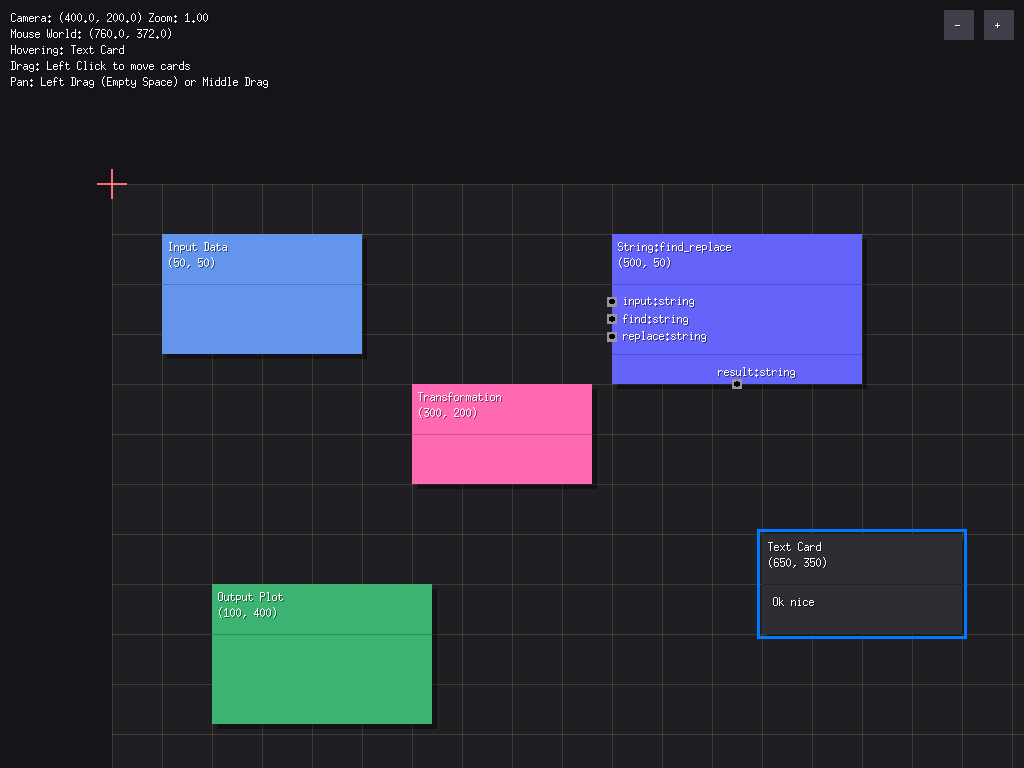
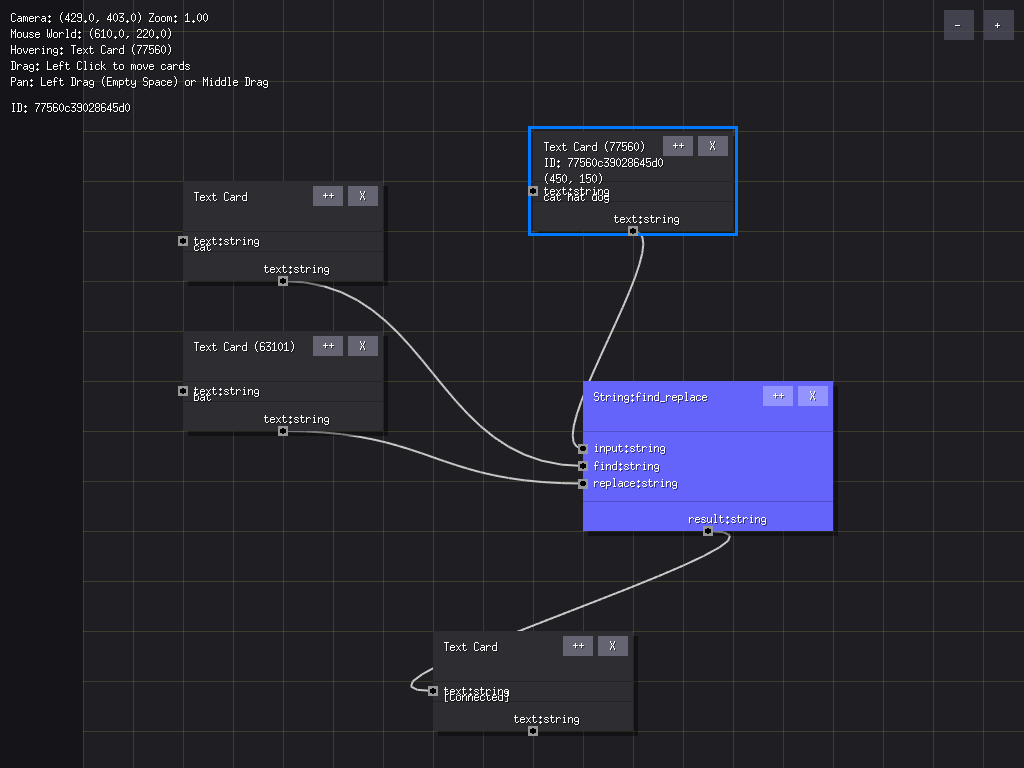
feat: Update card header display to show ID only when hovered and adjust padding for content

diff --git a/card.go b/card.go
@@ -63,7 +63,7 @@ func (c *Card) Draw(screen *ebiten.Image, g *Game, cw, ch float64, hovered bool)
 	c.drawBody(screen, g, sx, sy, sw, sh)
 	c.drawSelectionBorder(screen, g, hovered, sx, sy, sw, sh)
 	c.drawResizeHandles(screen, g, hovered, wx, wy, cw, ch)
-	c.drawHeader(screen, g, sx, sy, sw, wx, wy)
+	c.drawHeader(screen, g, sx, sy, sw, wx, wy, hovered)
 
 	headerHeight := HeaderHeight
 	footerHeight := 0.0
@@ -141,10 +141,15 @@ func (c *Card) drawResizeHandles(screen *ebiten.Image, g *Game, hovered bool, wx
 	}
 }
 
-func (c *Card) drawHeader(screen *ebiten.Image, g *Game, sx, sy, sw float64, wx, wy float64) {
-	// Title
-	msg := fmt.Sprintf("%s\nID: %s\n(%.0f, %.0f)", c.Title, c.ID, c.X, c.Y)
-	ebitenutil.DebugPrintAt(screen, msg, int(sx+5), int(sy+5))
+func (c *Card) drawHeader(screen *ebiten.Image, g *Game, sx, sy, sw float64, wx, wy float64, hovered bool) {
+	// Title - only show ID when hovered
+	var msg string
+	if hovered {
+		msg = fmt.Sprintf("%s\nID: %s\n(%.0f, %.0f)", c.Title, c.ID, c.X, c.Y)
+	} else {
+		msg = c.Title
+	}
+	ebitenutil.DebugPrintAt(screen, msg, int(sx+CardPaddingX*g.camera.Zoom), int(sy+CardPaddingY*g.camera.Zoom))
 
 	// Buttons
 	zoom := g.camera.Zoom
@@ -204,7 +209,10 @@ func (c *Card) drawContent(screen *ebiten.Image, g *Game, sx, sy, headerHeight f
 		textContent = c.Text
 	}
 
-	ebitenutil.DebugPrintAt(screen, textContent, int(sx+10), int(sy+headerHeight+10))
+	zoom := g.camera.Zoom
+	paddingX := CardPaddingX * zoom
+	paddingY := CardPaddingY * zoom
+	ebitenutil.DebugPrintAt(screen, textContent, int(sx+paddingX), int(sy+headerHeight+paddingY))
 }
 
 func (c *Card) drawDividers(screen *ebiten.Image, g *Game, sx, sy, sw, sh, headerHeight, footerHeight float64, cw, ch float64) {

diff --git a/config.go b/config.go
@@ -31,6 +31,8 @@ const (
 	BorderOffset      = 2.0
 	CornerRadius      = 6.0
 	CornerThreshold   = 15.0
+	CardPaddingX      = 10.0
+	CardPaddingY      = 8.0
 
 	CardActionButtonWidth  = 30.0
 	CardActionButtonHeight = 20.0
